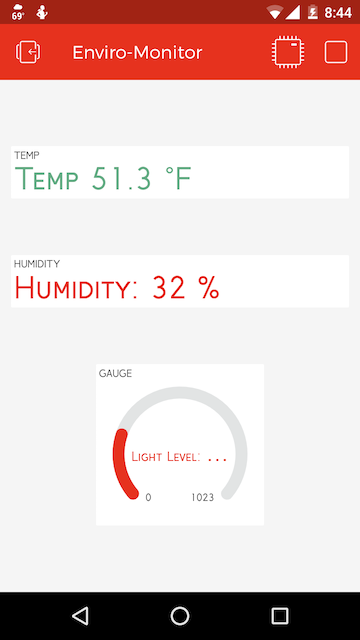
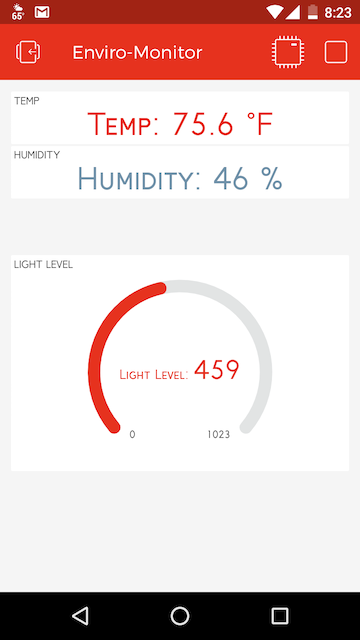
Blynk - code section completed

diff --git a/_docs/tutorials/blynk.md b/_docs/tutorials/blynk.md
@@ -22,7 +22,7 @@ We've already made some use of Particle's console (and its Publish/Subscribe i/o
 
 In this tutorial, we will use [Blynk](http://www.blynk.cc/).
 
-<img src="{{ "/images/blynk/blynk.jpg" | prepend: site.baseurl }}{{ img }}" alt="Blynk Logo">
+<img src="{{ "/images/blynk/blynk.png" | prepend: site.baseurl }}{{ img }}" alt="Blynk Logo">
 
 ## What is Blynk?
 
@@ -115,37 +115,69 @@ You can adjust the position and size of your widgets by pressing and holding on 
 You are now ready to make the modifications to your Photon's Arduino code to connect to the Blynk App and Server.
 
 
+
 ## Part III:  Modify your Code
 
-Recall that the code from [Experiment 6](https://learn.sparkfun.com/tutorials/sparkfun-inventors-kit-for-photon-experiment-guide/experiment-6-environment-monitor) took temperature and humidity readings from the RTH03 sensor and light readings from the photocell every 1.5 seconds.  The onboard LED (attached to pin D7) would blink every time a reading was taken from the sensors.
+Recall that the code from [Experiment 6](https://learn.sparkfun.com/tutorials/sparkfun-inventors-kit-for-photon-experiment-guide/experiment-6-environment-monitor) took temperature and humidity readings from the RTH03 sensor and light readings from the photocell every 1.5 seconds.  The onboard LED (attached to pin D7) would blink every time a reading was taken from the sensors.   And the data from these sensor readings was sent over USB serial to your attached computer.   The whole point of the IoT, however, is that devices can operate wirelessly and remotely.
 
-In this exercise, we will modify the code so that instead of simply writing the data to serial, the Photon will send the data to the Blynk Server.
+In this exercise, we will modify the Experiment 6 code so that instead of simply writing the data to serial, the Photon will send the data to the Blynk Server enabling its display on the Blynk App dashboard we created in Part II above.
 
 1.  Go into the [Particle online IDE](https://build.particle.io) and find the Particle app that you created when you completed Part I of Exercise 6.   
 
-2.  Select all of the code in that app and then create a new app called "EnvironmentalLoggerBlynk", pasting the code into the new app.   
+2.  Select all of the code in that app and copy it.  Next, create a new app called "EnvironmentalLoggerBlynk", pasting the code into the new app.   
 
-3.  Go to the Libraries section of the online IDE and search for "blynk".
+3.  Note that the libraries associated with a particular project *DO NOT*  get copied over when you cut-and-paste code between projects in the Particle online IDE.  As a consequence, you will need to re-include the RHT03 library:   
+   * Delete the top two lines of the code you've copied over:
+   ```c++
+   // This #include statement was automatically added by the Particle IDE.
+   #include <SparkFunRHT03.h>
+   ```
+   * Go to the Libraries section of the online IDE and search for "RHT03".
+   * Click on "SparkFunRHT03" to select that library and then click on the blue "Include in Project" button.
+   * Under "Which App?", select the project that you just created and click "Confirm".   
 
-4.  Click on it and then choose the blue "Include in Project" button.  
+4.  Also add the "blynk" library, which will enable functions for communication between your Photon and the Blynk ecosystem.
 
-5.  Under "Which App?", select the project that you just created and click "Confirm".   
-   This will add a new line to the top of your code:
+5.  Your code should now have both of the following libraries included in the code
 ```c++
+#include <SparkFunRHT03.h>
 #include <blynk.h>
 ```   
-This tells the Particle IDE to bundle the Blynk libraries with your code when it compiles it and flashes it to your Photon.  
+and listed under the Particle app's "Included Libraries" list in the Code panel.
 
-   Note:  *If you get compile errors on Verify that relate to the RTH03 sensor library, you may need to re-add that library to this new project.*
+6.  Now we can add in the code necessary to interact with the basic functionalities of the Blynk library.  For more information on these functions, visit the [Blynk Firmware Documentation](http://docs.blynk.cc/#blynk-firmware).    
 
-6.  Find your Auth Token from Part I, &#35;7 and add it to the declarations above the `void setup()` function:   
+   Find your Auth Token from Part I, &#35;7 and add it to the declarations above the `void setup()` function:   
 ```c++
 char auth[] = "YourAuthToken";
 ```
 
-7.  Inside the `void setup()` function, add:
+7.  Inside the `void setup()` function, on the last line before the closing }, add:
 ```c++
 Blynk.begin(auth); // initiate Blynk library
 ```
+http://docs.blynk.cc/#blynk-firmware-configuration-blynkbegin   
+This function initiates the Blynk library and establishes a connection to the Blynk server.
 
-8.  
+8.  At the top of the `void loop()` function, add:
+```c++
+Blynk.run()
+```
+http://docs.blynk.cc/#blynk-firmware-connection-management-blynkrun   
+This function will enable Blynk's access (read and/or write) to the digital and analog pins of your Photon if you have configured them in the Blynk App.  
+
+9.  Finally, in the section of the `void loop()` after the calculation of `humidity` and `tempF` and before the section of `Serial.print()` section, add the following lines:   
+   ```c++
+   //virtual pin 1 will be the temperature
+   Blynk.virtualWrite(V0, tempF);
+
+   //virtual pin 2 will be humidity
+   Blynk.virtualWrite(V1, humidity);
+   ```   
+   These functions will "write" the values of the tempF and humidity variables to the Blynk server and relay them to the corresponding widgets on the Blynk App canvas.
+
+10.  Verify and then flash the code to your Photon Redboard.
+
+11.  Finally, in the Blynk App, click the "play" icon in the upper-right of the Blynk mobile app to switch from EDIT to PLAY mode.   
+<img src="{{ "/images/blynk/play.png" | prepend: site.baseurl }}{{ img }}" alt="PLAY mode button" >   
+You should see data appear in the App, updating regularly.
